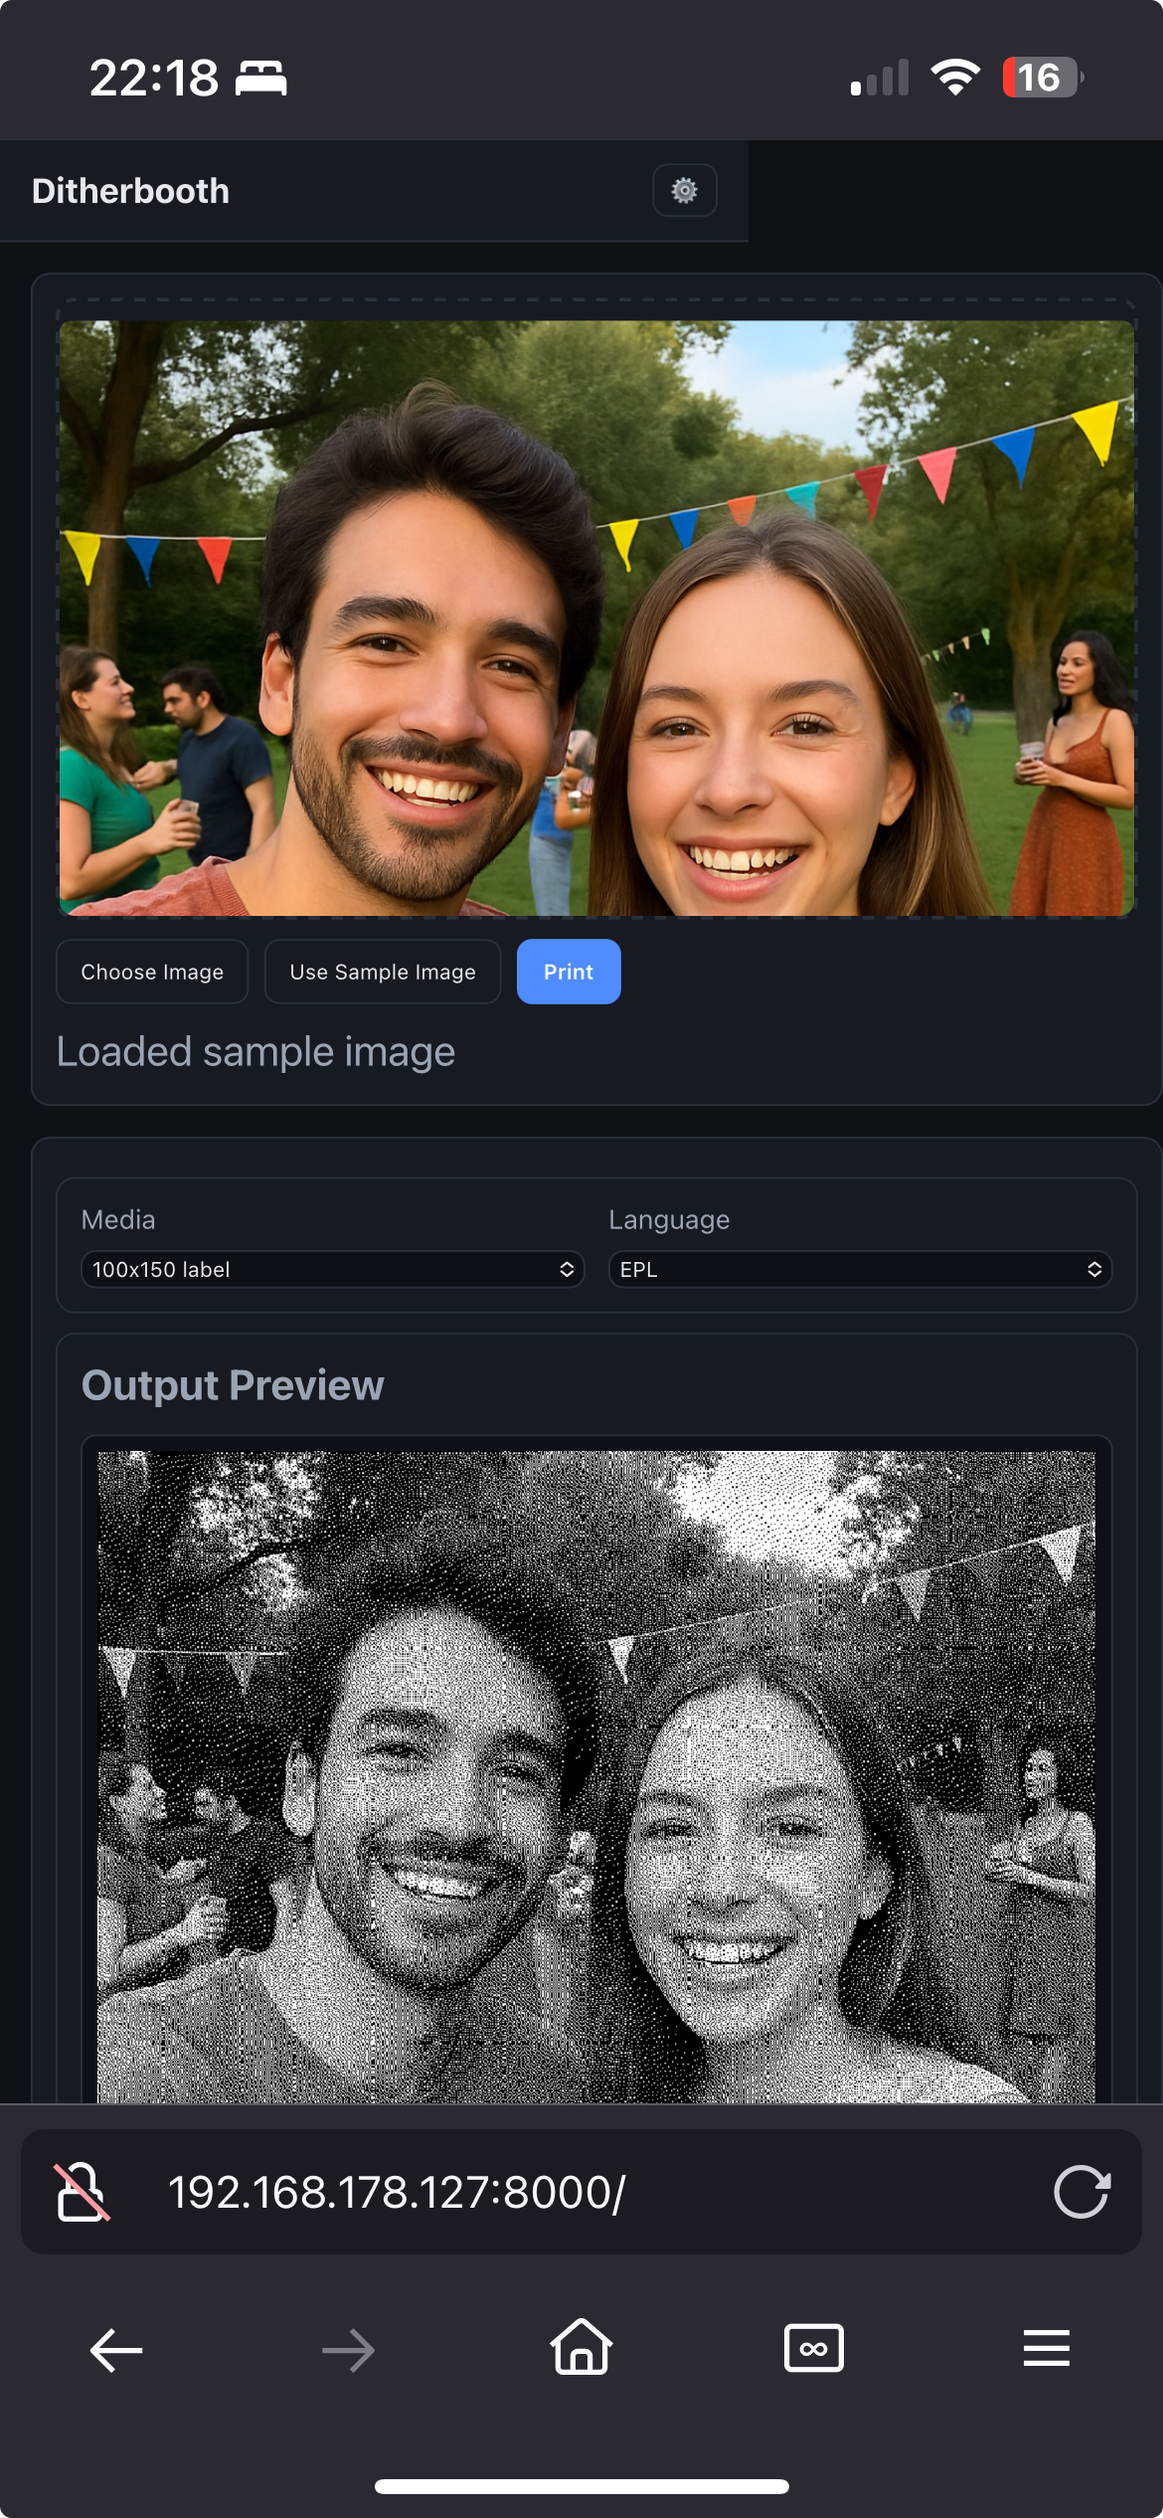
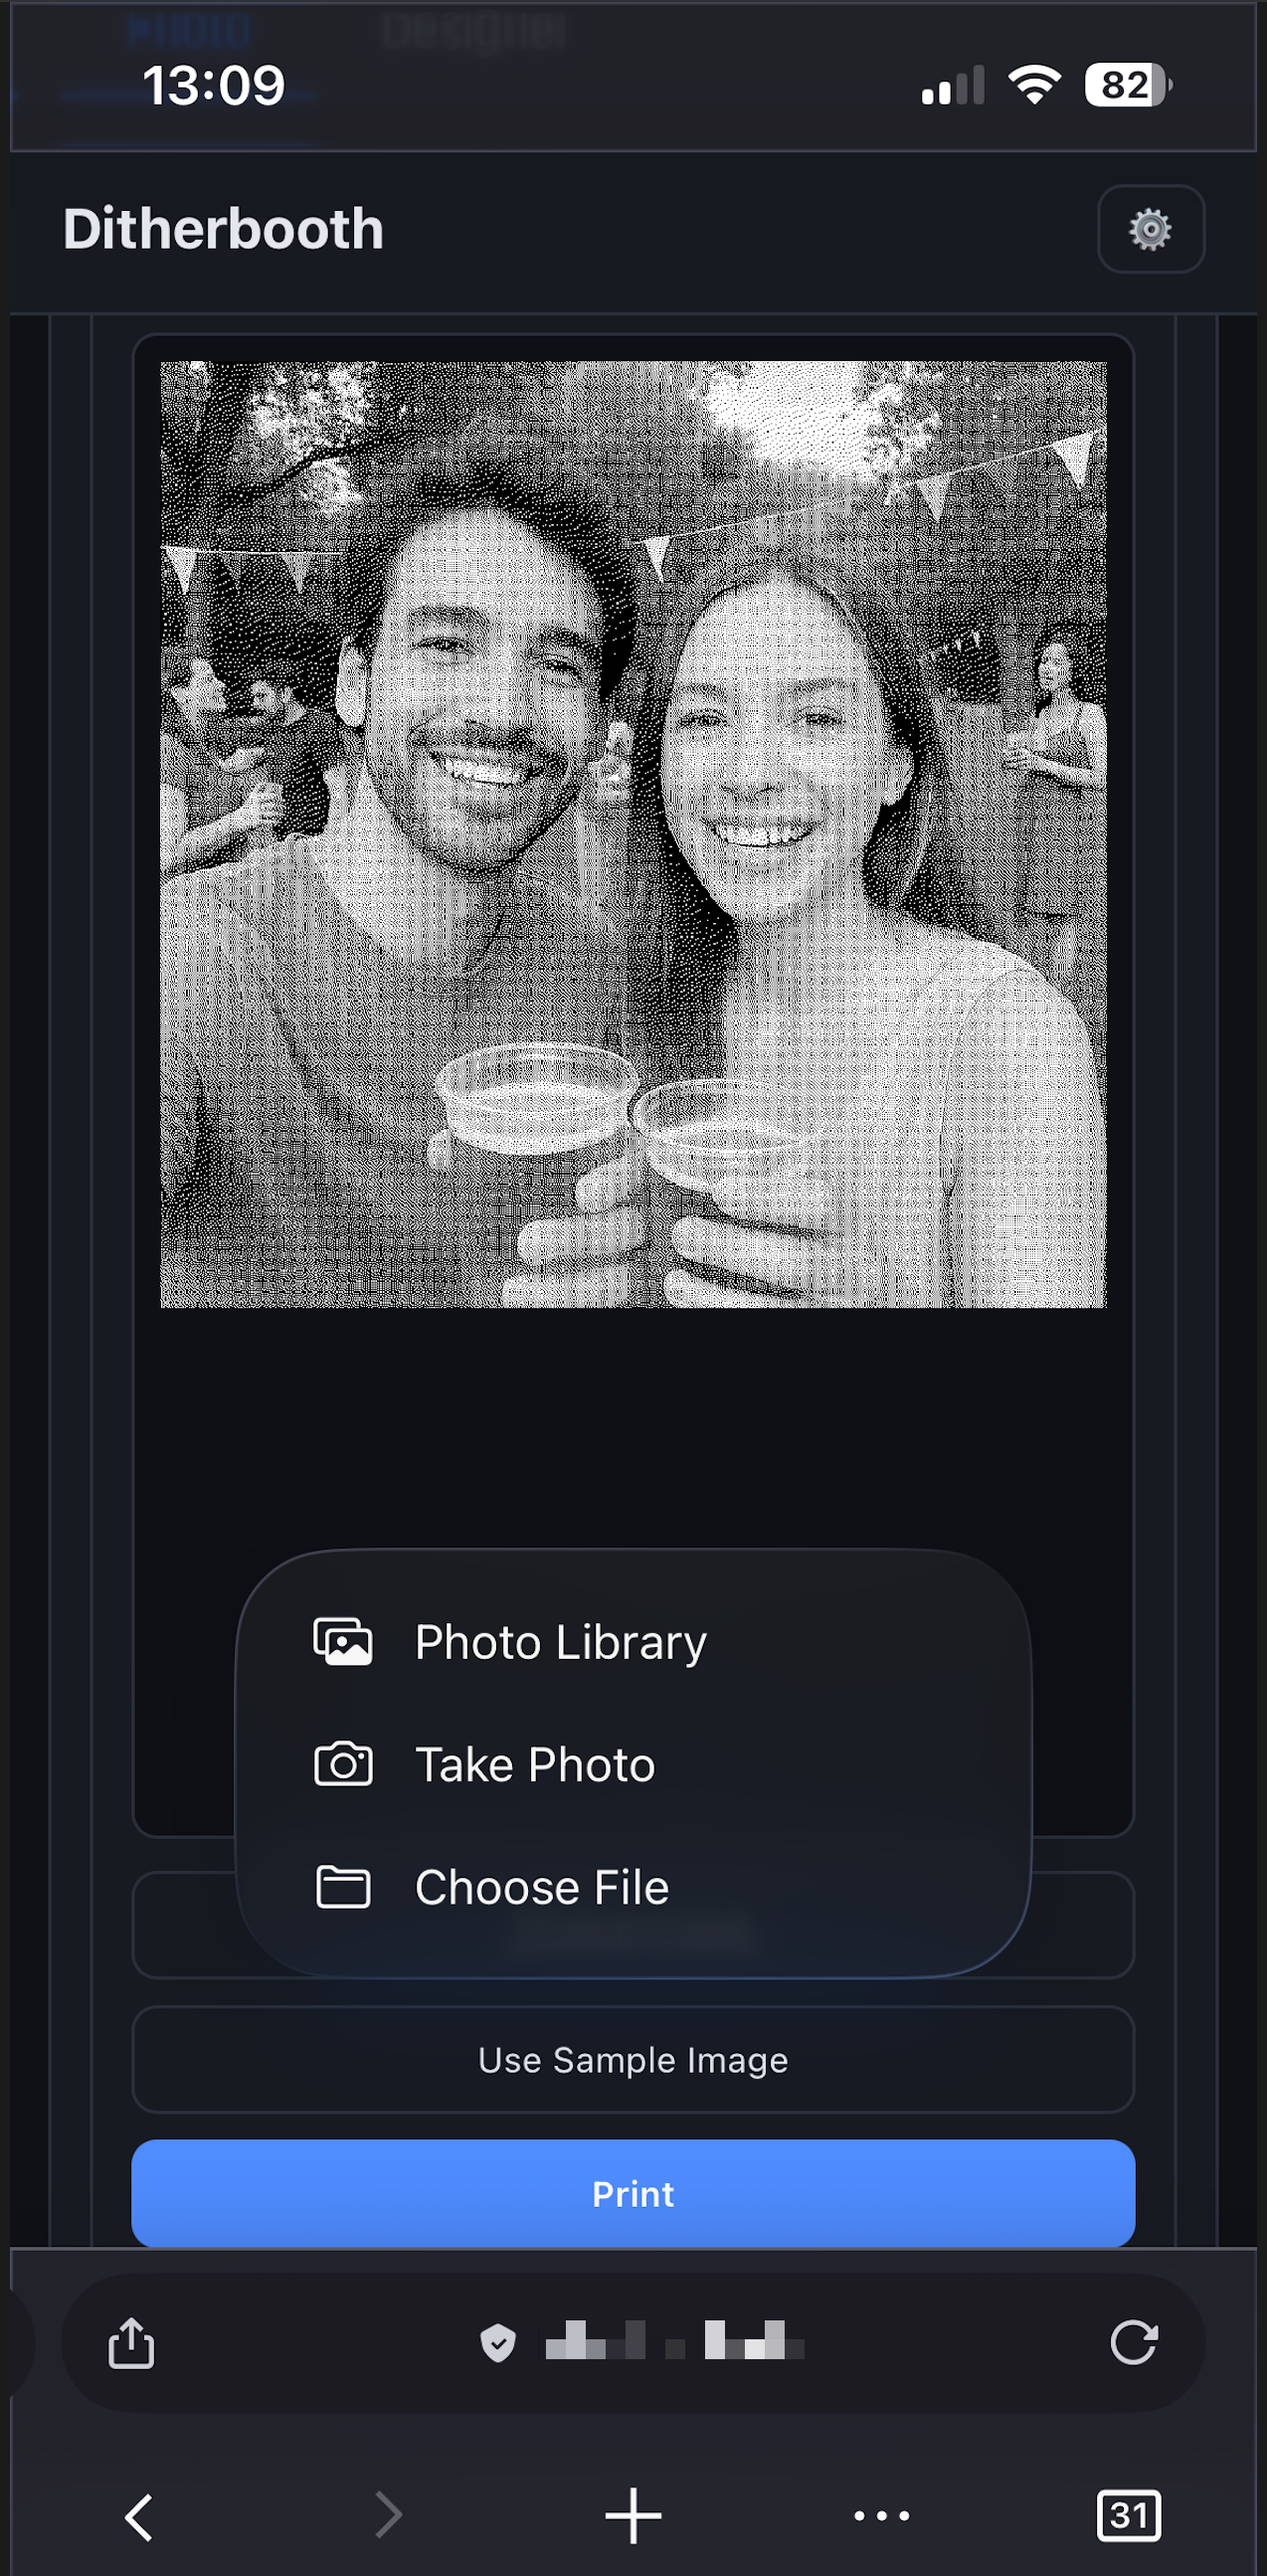
Update screenshots with polished versions
Replace auto-captured screenshots with curated ones: mobile photo
flow and designer showing queue, templates, shapes, and fonts.
Consolidate into two side-by-side images in README.

diff --git a/README.md b/README.md
@@ -21,19 +21,10 @@ Ditherbooth turns any phone or computer into a photo booth for thermal label pri
 ## Screenshots
 
 <p align="center">
-  <img src="docs/screenshots/photo-tab.png" alt="Photo booth flow" width="600"/>
+  <img src="docs/screenshots/mobile-photo.png" alt="Photo booth on mobile" width="280"/>
+  <img src="docs/screenshots/designer-tab.png" alt="Label designer" width="400"/>
 </p>
-<p align="center"><em>Photo flow — upload or capture, preview the dithered output, print</em></p>
-
-<p align="center">
-  <img src="docs/screenshots/designer-tab.png" alt="Label designer" width="600"/>
-</p>
-<p align="center"><em>Label designer — text, images, shapes, templates, and multi-label queue</em></p>
-
-<p align="center">
-  <img src="docs/screenshots/mobile-photo.png" alt="Mobile view" width="280"/>
-</p>
-<p align="center"><em>Works on any device — open it on your phone over the local network</em></p>
+<p align="center"><em>Snap a photo and print it instantly (left) — design custom labels with templates and queue (right)</em></p>
 
 ## Features
 
